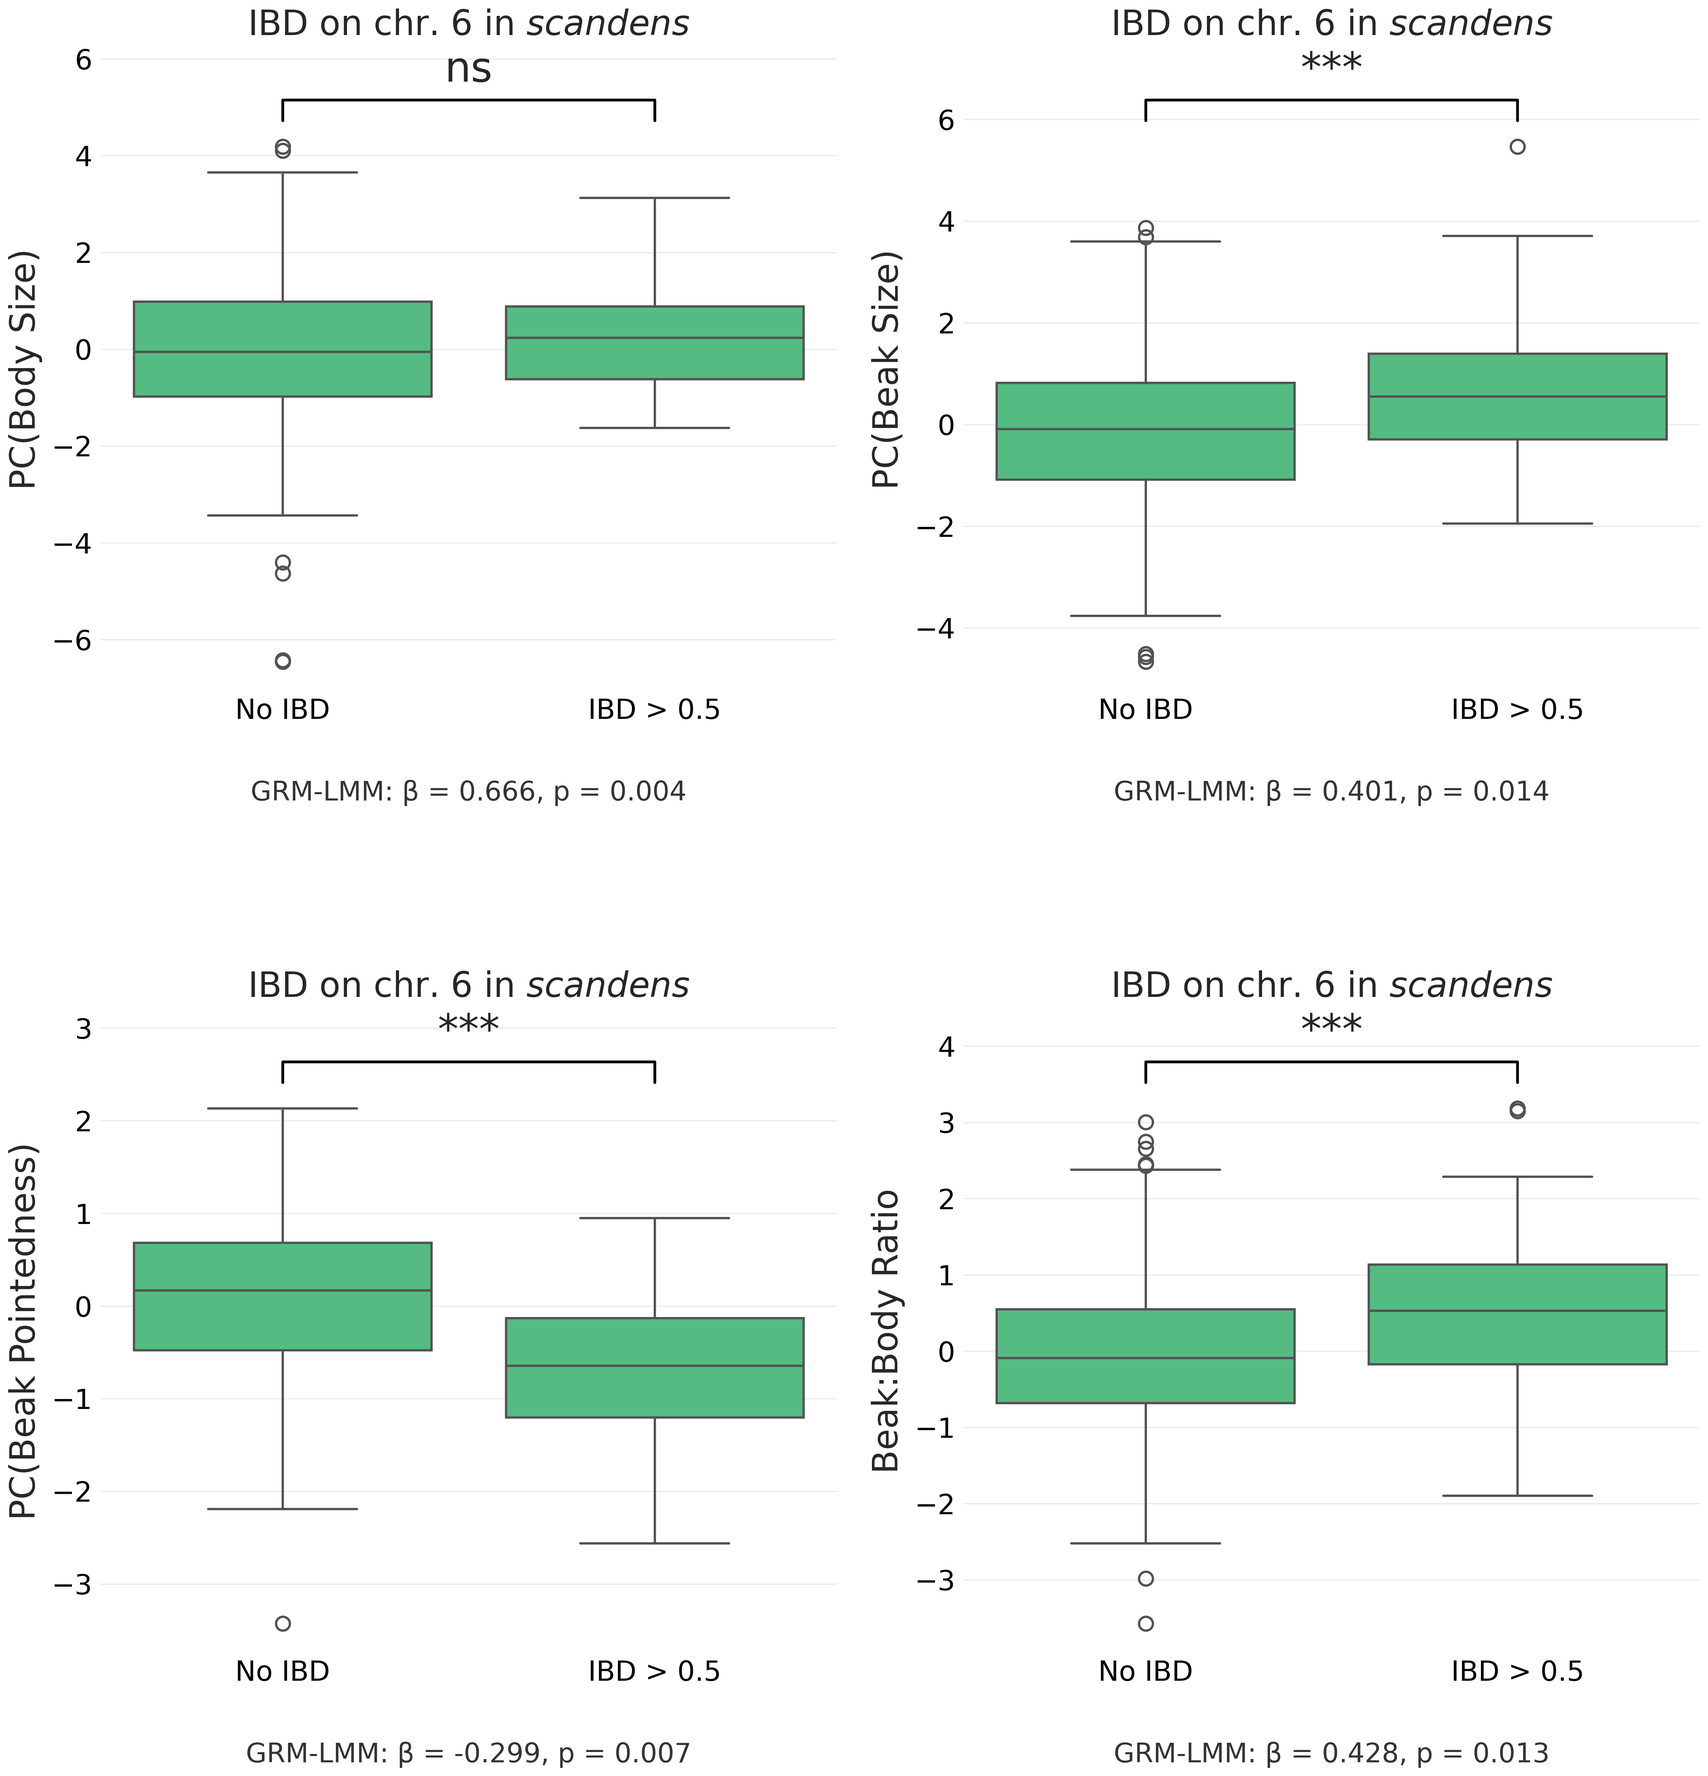
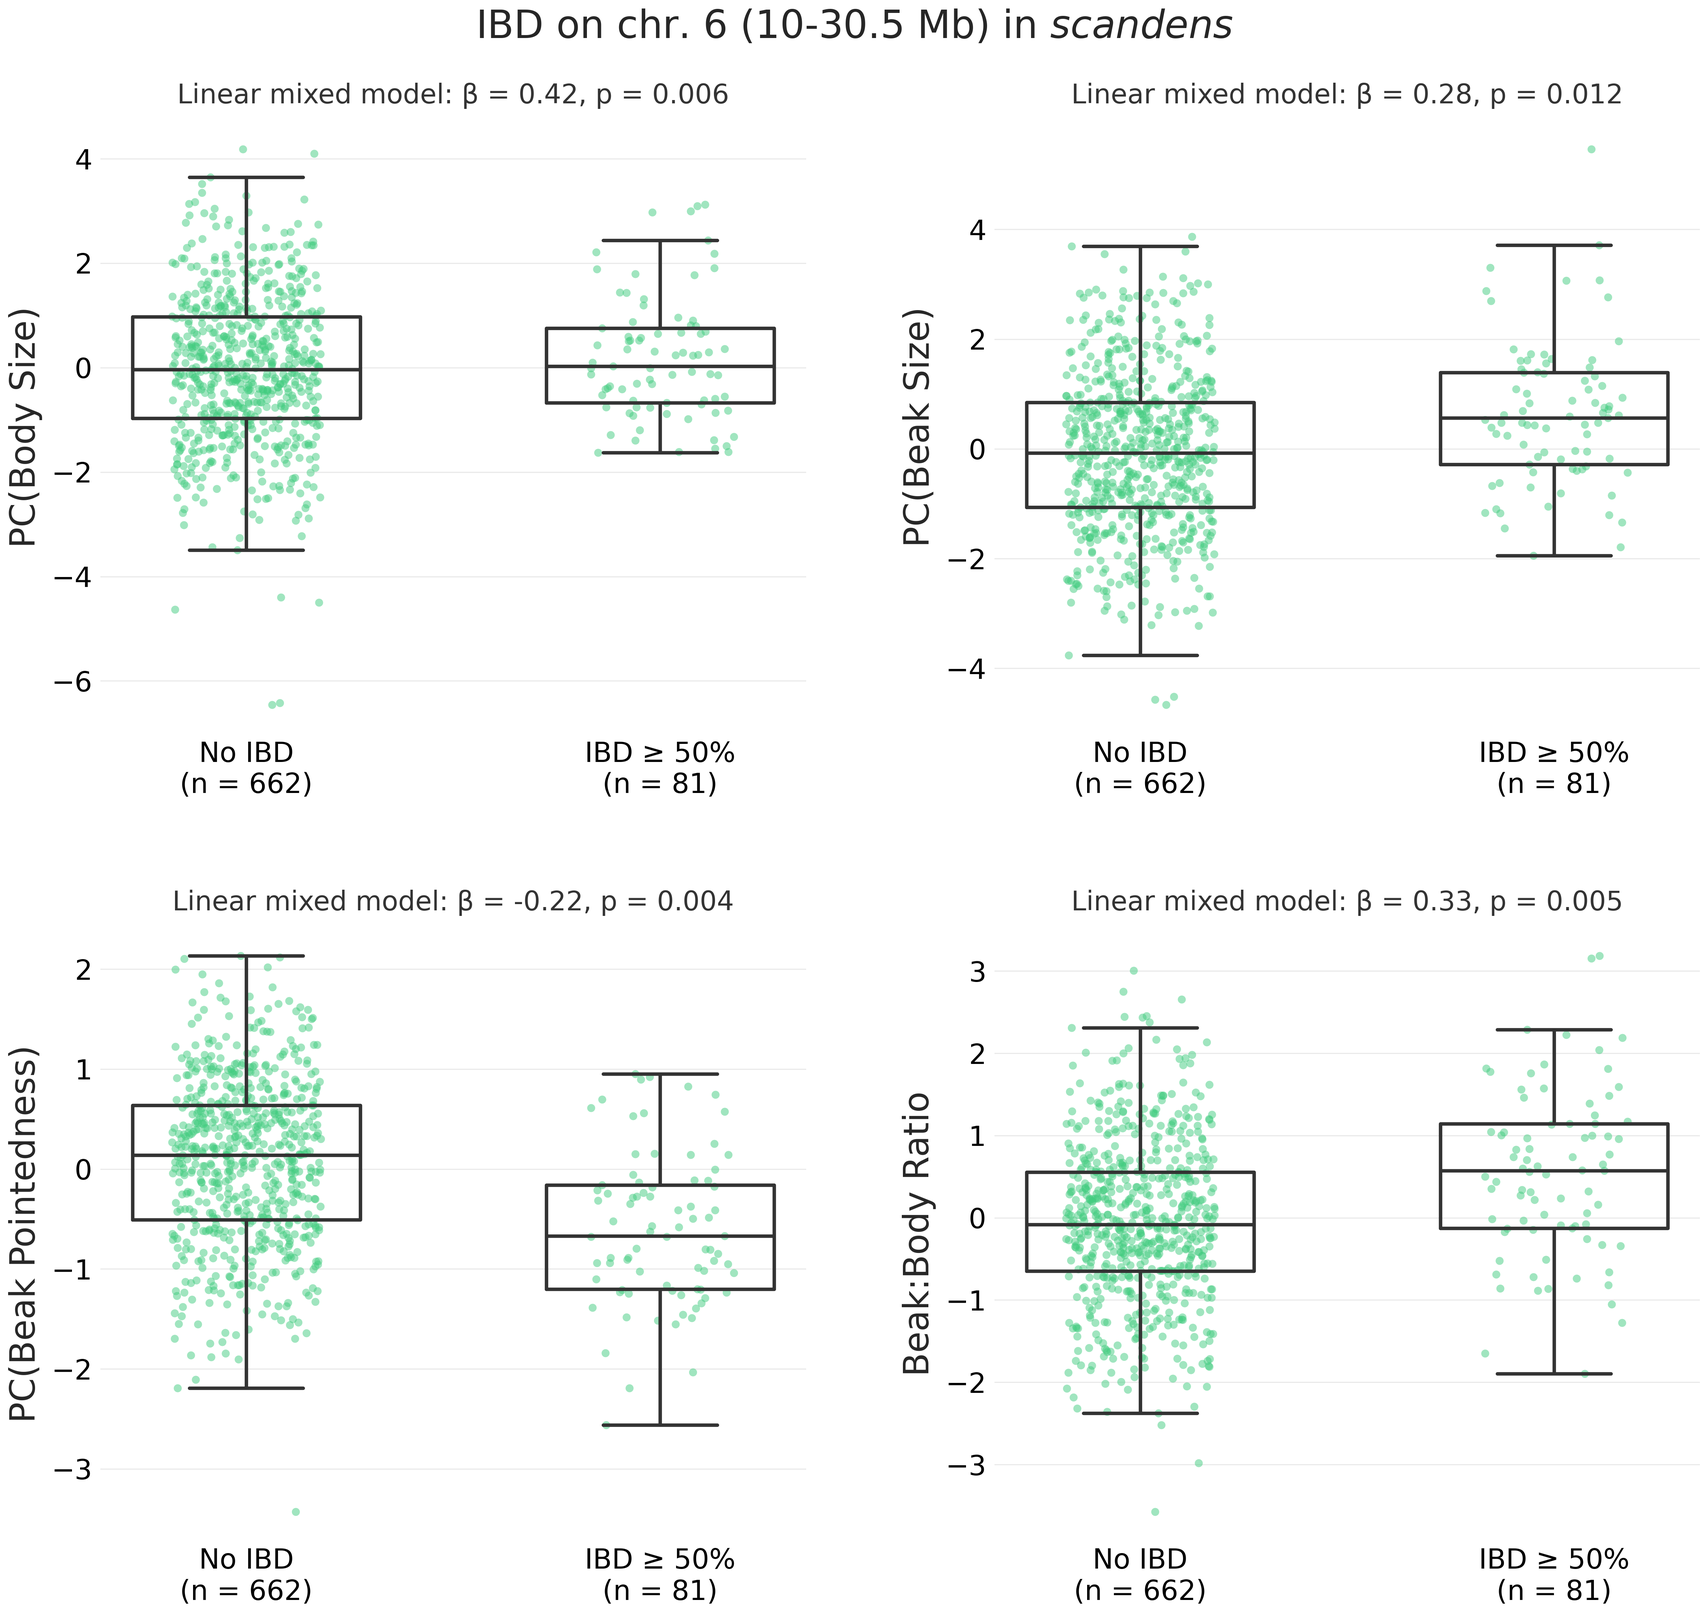
updated chr 6 box plots to perform the same analysis as on the manhattan plots but with a larger region and lower IBD threshold

diff --git a/figures_ibis/scripts/fig_4_combined.py b/figures_ibis/scripts/fig_4_combined.py
@@ -2,34 +2,36 @@ import importlib.util
 import sys
 import matplotlib.pyplot as plt
 import matplotlib.transforms as mtransforms
-import seaborn as sns
 from matplotlib.gridspec import GridSpec
 from matplotlib.patches import ConnectionPatch
-from common import ASSOCIATION, COLOR_MAP, load_chromosomes, load_ibd_beak_birds, load_master, plot_beak_vs_ibd, save_figure, set_plot_theme, style_legend
+from common import ASSOCIATION, load_chromosomes, load_ibd_beak_birds, load_master, plot_beak_vs_ibd, save_figure, set_plot_theme, style_legend
 
 # the IBD-phenotype association helpers (loaded by path since it is also named common.py)
 _spec = importlib.util.spec_from_file_location("association_common", f"{ASSOCIATION}/scripts/common.py")
 sys.modules["association_common"] = importlib.util.module_from_spec(_spec)
 _spec.loader.exec_module(sys.modules["association_common"])
-from association_common import chromosome_lmm, chromosome_test_birds, genome_layout, load_results, plot_manhattan
+from association_common import CHR6_REGION, genome_layout, load_results, plot_manhattan, plot_region_box, region_lmm, region_test_birds
 
 set_plot_theme()
 SPP = "scandens"
 TRAIT = "PC(Beak Pointedness)"
-CHROM = "6"
+CHROM, START, END = CHR6_REGION
+
+# where the arrow from the region in (c) ends, in (b)'s axes fractions: x from 0 (left edge of b's plot area) to 1 (right edge), y from 0 (bottom
+# of the plot area, above the tick labels) to 1 (top); negative y is below the plot area (the tick labels end around -0.13)
+ARROW_TIP = (0.3, -0.12)
 
 
 ########################### LOAD DATA ###########################
 # (a) every bird carrying IBD with the founder: beak pointedness against the genome-wide fraction of SNPs in IBD
 ibd_birds = load_ibd_beak_birds(load_master())
 
-# (b) the scandens of the association test: beak pointedness against the fraction of chromosome 6 SNPs in IBD, tested with the same LMM as
-# the windows (chromosome 6 LOCO GRM, covariates sex, IBD outside chromosome 6, and PC(Body Size)), but with continuous IBD over the whole chromosome
+# (b) the scandens of the association test with at least half of the chromosome 6 region in IBD, or none, tested with the same LMM as the
+# windows (chromosome 6 LOCO GRM, covariates sex, IBD outside chromosome 6, and PC(Body Size))
 chrom_code = {name: code for code, name in load_chromosomes().items()}[CHROM]
-birds, eig = chromosome_test_birds(SPP, chrom_code)
-beta, p = chromosome_lmm(birds, eig, TRAIT)
-carriers, non_carriers = birds[birds["chr_ibd"] > 0], birds[birds["chr_ibd"] == 0]
-print(f"chr{CHROM} {SPP} {TRAIT}: n = {len(birds)}, {(birds['chr_ibd'] > 0).sum()} with IBD on chr{CHROM}, beta = {beta:.6f}, p = {p:.6f}")
+birds, eig = region_test_birds(SPP, chrom_code, START, END)
+beta, p = region_lmm(birds, eig, TRAIT)
+print(f"chr{CHROM}:{START}-{END} {SPP} {TRAIT}: {birds['ibd_group'].value_counts().to_dict()}, beta = {beta:.6f}, p = {p:.6f}")
 
 # (c) windows of the association test
 genome = genome_layout()
@@ -39,34 +41,24 @@ manhattan = results[(results["species"] == SPP) & (results["trait"] == TRAIT)]
 
 ########################### CREATE PLOT ###########################
 fig = plt.figure(figsize=(16, 12))
-gs = GridSpec(2, 2, figure=fig, height_ratios=[1, 0.75], hspace=0.45, wspace=0.25)
+gs = GridSpec(2, 2, figure=fig, height_ratios=[1, 0.75], hspace=0.32, wspace=0.25)
 ax_a, ax_b = fig.add_subplot(gs[0, 0]), fig.add_subplot(gs[0, 1])
 ax_c = fig.add_subplot(gs[1, :])
 
 plot_beak_vs_ibd(ax_a, ibd_birds, TRAIT, show_legend=True, stats_y=(1.075, 1.02))
 style_legend(ax_a, loc="upper right")
 
-# (b) the birds carrying IBD on chromosome 6 (as in a, birds without IBD are not shown), with the mean of the birds without any as a reference
-sns.scatterplot(x=carriers["chr_ibd"], y=carriers[TRAIT], color=COLOR_MAP[SPP], s=25, alpha=0.75, ax=ax_b, zorder=2)
-ax_b.axhline(non_carriers[TRAIT].mean(), color="darkgray", linestyle="--", linewidth=1.5, zorder=1)
-ax_b.text(0.17, non_carriers[TRAIT].mean() - 0.03, f"mean without IBD (n = {len(non_carriers)})", ha="left", va="top", fontsize="x-small",
-          color="dimgray")
-ax_b.text(0.03, 1.02, rf"$\it{{{SPP}}}$ GRM-LMM: β = {beta:.3f}, p = {p:.3f}", transform=ax_b.transAxes, va="bottom", ha="left", fontsize="small",
-          color=COLOR_MAP[SPP])
-ax_b.set_xlabel(f"Proportion of Chr. {CHROM} SNPs in IBD")
-ax_b.set_ylabel(TRAIT)
-ax_b.set_xlim(-0.02, 1.02)
-sns.despine(top=True, right=True, left=True, bottom=True, ax=ax_b)
+plot_region_box(ax_b, birds, TRAIT, beta, p, SPP)
+ax_b.set_title(f"IBD on chr. {CHROM} ({START / 1e6:g}-{END / 1e6:g} Mb) in " + r"$\it{" + SPP + "}$", pad=30)
 
 plot_manhattan(ax_c, manhattan, genome, SPP, "neg_log10_p", "$-log_{10}$p-value", show_threshold=True, point_size=8, tick_fontsize=11, combine_from="17")
-ax_c.set_title(f"{TRAIT} in " + r"$\it{" + SPP + "}$", pad=30)
+ax_c.set_title(r"Association of $\mathrm{IBD_{F}}$ with " + f"{TRAIT} in " + r"$\it{" + SPP + "}$", loc="left", pad=16)  # left so the arrow from chr. 6 clears it
 
-# bracket over chromosome 6 in (c), with an arrow up to (b)
-start, length = genome.loc[CHROM, "start"], genome.loc[CHROM, "length"]
-bracket = mtransforms.blended_transform_factory(ax_c.transData, ax_c.transAxes)
-y0, y1 = 1.02, 1.05
-ax_c.plot([start, start, start + length, start + length], [y0, y1, y1, y0], transform=bracket, color="darkgray", linewidth=1.5, clip_on=False)
-fig.add_artist(ConnectionPatch(xyA=(start + length / 2, y1), coordsA=bracket, xyB=(0.38, -0.125), coordsB=ax_b.transAxes,
+# gray band behind the chromosome 6 region in (c), with an arrow from it up to (b)
+region_start, region_end = genome.loc[CHROM, "start"] + START, genome.loc[CHROM, "start"] + END
+ax_c.axvspan(region_start, region_end, color="lightgray", alpha=0.5, linewidth=0, zorder=0)
+band_top = mtransforms.blended_transform_factory(ax_c.transData, ax_c.transAxes)
+fig.add_artist(ConnectionPatch(xyA=((region_start + region_end) / 2, 1.0), coordsA=band_top, xyB=ARROW_TIP, coordsB=ax_b.transAxes,
                                arrowstyle="-|>", color="darkgray", linewidth=1.5, mutation_scale=18))
 
 save_figure("main/figure4.png", fig)

diff --git a/figures_ibis/scripts/fig_chr6_traits.py b/figures_ibis/scripts/fig_chr6_traits.py
@@ -2,82 +2,31 @@ import importlib.util
 import sys
 import pandas as pd
 import matplotlib.pyplot as plt
-import seaborn as sns
-from scipy.stats import mannwhitneyu
-from common import ASSOCIATION, COLOR_MAP, load_chromosomes, save_figure, set_plot_theme
+from common import ASSOCIATION, load_chromosomes, save_figure, set_plot_theme
 
 # the IBD-phenotype association helpers (loaded by path since it is also named common.py)
 _spec = importlib.util.spec_from_file_location("association_common", f"{ASSOCIATION}/scripts/common.py")
 sys.modules["association_common"] = importlib.util.module_from_spec(_spec)
 _spec.loader.exec_module(sys.modules["association_common"])
-from association_common import TRAITS, chromosome_lmm, chromosome_test_birds
+from association_common import CHR6_REGION, TRAITS, plot_region_box, region_lmm, region_test_birds
 
 set_plot_theme()
 spp = "scandens"
-chrom_name = "6"
+chrom_name, start, end = CHR6_REGION
 
-# ── birds + IBD ───────────────────────────────────────────────────────────────
-# the scandens of the IBD-phenotype association test (all six measurements and known sex, traits fit within them), with the fraction of
-# chromosome 6 SNPs in IBD (chr_ibd) and of the SNPs outside it (loco_ibd), and the chromosome 6 LOCO GRM
+# the scandens of the IBD-phenotype association test (traits fit within them) with at least half of the chromosome 6 region in IBD, or none
 chrom_code = {name: code for code, name in load_chromosomes().items()}[chrom_name]
-birds, eig = chromosome_test_birds(spp, chrom_code)
+birds, eig = region_test_birds(spp, chrom_code, start, end)
 
-# create IBD categories for boxplot
-thresh = 0.5
-IBD_type = lambda x: f"IBD > {thresh}" if x > thresh else ("Low IBD" if x > 0 else "No IBD")
-birds["IBD_type"] = birds["chr_ibd"].apply(IBD_type)
-birds_box = birds[birds["IBD_type"] != "Low IBD"].copy()
+# LMM of each trait on the IBD group, with the same LOCO GRM and covariates (sex, IBD outside the chromosome, and PC(Body Size) for beak size /
+# pointedness) as the windows of the IBD-phenotype association
+stats = pd.DataFrame({trait: region_lmm(birds, eig, trait) for trait in TRAITS}, index=["beta", "p_value"]).T
+print(birds["ibd_group"].value_counts().to_dict())
+print(stats)
 
-# ── regression stats (GRM-LMM on the continuous chr_ibd before binning) ──────
-# the same LOCO GRM, covariates (sex, IBD outside the chromosome, and PC(Body Size) for beak size / pointedness), and likelihood ratio test
-# as the windows of the IBD-phenotype association, but with continuous IBD over the whole chromosome
-stats = {trait: dict(zip(["beta", "p_reg"], chromosome_lmm(birds, eig, trait))) for trait in TRAITS}
-
-# ── Mann-Whitney (boxplot groups) ─────────────────────────────────────────────
-for trait in TRAITS:
-    a = birds_box.loc[birds_box["IBD_type"] == "No IBD", trait]
-    b = birds_box.loc[birds_box["IBD_type"] == f"IBD > {thresh}", trait]
-    _, p_mwu = mannwhitneyu(a, b, alternative="two-sided")
-    stats[trait]["p_mwu"] = p_mwu
-print(birds_box["IBD_type"].value_counts().to_dict())
-print(pd.DataFrame(stats).T)
-
-# ── plot ──────────────────────────────────────────────────────────────────────
-def annotate_panel(ax, beta, p_reg, p_mwu, y_max, y_range):
-    # bracket: Mann-Whitney stars
-    if p_mwu < 0.001:   stars = "***"
-    elif p_mwu < 0.01:  stars = "**"
-    elif p_mwu < 0.05:  stars = "*"
-    else:               stars = "ns"
-
-    h = y_range * 0.04
-    pad = y_range * 0.02
-    y_top = y_max + y_range * 0.05
-
-    ax.plot([0, 0, 1, 1], [y_top, y_top + h, y_top + h, y_top], lw=1.2, color="black", clip_on=False)
-    ax.text(0.5, y_top + h + pad, stars, ha="center", va="bottom", fontsize=18)
-    ax.set_ylim(top=y_top + h + pad + y_range * 0.08)
-
-    # regression stats (continuous chr_ibd, GRM-LMM) placed below the panel - this is a
-    # separate calculation from the boxed/binned Mann-Whitney comparison shown above
-    p_reg_str = f"p = {p_reg:.3f}" if p_reg > 0.001 else "p < 0.001"
-    ax.text(0.5, -0.14, f"GRM-LMM: β = {beta:.3f}, {p_reg_str}", transform=ax.transAxes, ha="center", va="top", fontsize="small", color="#333333")
-
-fig, axes = plt.subplots(2, 2, figsize=(10.6, 11))
+fig, axes = plt.subplots(2, 2, figsize=(10.6, 10))
 for ax, trait in zip(axes.flat, TRAITS):
-    sns.boxplot(data=birds_box, x="IBD_type", y=trait, order=["No IBD", f"IBD > {thresh}"], color=COLOR_MAP[spp], zorder=2, ax=ax)
-    if ax.collections:
-        ax.collections[-1].set_zorder(3)
-
-    ax.set_xlabel(None)
-    ax.set_ylabel(trait)
-    ax.set_title(f"IBD on chr. {chrom_name} in " + r"$\it{" + spp + "}$")
-
-    y_max = birds_box[trait].max()
-    y_range = birds_box[trait].max() - birds_box[trait].min()
-    annotate_panel(ax, stats[trait]["beta"], stats[trait]["p_reg"], stats[trait]["p_mwu"], y_max, y_range)
-    sns.despine(top=True, right=True, left=True, bottom=True, ax=ax)
-
-plt.tight_layout()
-plt.subplots_adjust(hspace=0.5)  # room for the regression annotation below each panel
+    plot_region_box(ax, birds, trait, stats.loc[trait, "beta"], stats.loc[trait, "p_value"], spp)
+fig.suptitle(f"IBD on chr. {chrom_name} ({start / 1e6:g}-{end / 1e6:g} Mb) in " + r"$\it{" + spp + "}$")
+plt.tight_layout(h_pad=3, w_pad=3)  # extra room between panels
 save_figure(f"main/chr{chrom_name}_IBD_vs_traits.png")

diff --git a/ibd_phenotype_association/scripts/common.py b/ibd_phenotype_association/scripts/common.py
@@ -56,27 +56,60 @@ def loco_ibd_fractions():
     return (ibd.sum(axis=1).to_numpy()[:, None] - ibd) / (snps.sum() - snps)
 
 
-def chromosome_ibd_fractions():
-    """Fraction of each chromosome's SNPs in (trimmed) IBD with the founder, for every bird with IBD (bird x IBIS chromosome code)."""
-    ibd, snps = _ibd_snps_per_chromosome()
-    return ibd / snps
+REGION_COVERAGE = 0.5  # region test: birds whose IBD covers at least this fraction of the region, vs birds with none in it
+REGION_GROUPS = ["No IBD", f"IBD ≥ {REGION_COVERAGE:.0%}"]
+
+# region of chromosome 6 where beak pointedness is associated with IBD in scandens across the whole stretch (windows mostly p < 0.02,
+# falling off sharply on either side), tested as a whole in fig_chr6_traits.py and figure 4: chromosome name, start, end (bp)
+CHR6_REGION = ("6", 10_000_000, 30_500_000)
 
 
-def chromosome_test_birds(spp, chrom):
-    """A whole-chromosome version of the window test (chrom: IBIS chromosome code). The species' tested birds in the order of the chromosome's
-    LOCO GRM, with the fraction of the chromosome's SNPs in IBD (chr_ibd) and of the SNPs outside it (loco_ibd), and the GRM's eigendecomposition."""
+def region_test_birds(spp, chrom, start, end):
+    """A region-wide version of the window test (chrom: IBIS chromosome code, start / end in bp). The species' tested birds with at least
+    REGION_COVERAGE of the region covered by their (summed) IBD segments or none in it (ibd_group; birds with less are left out, like the
+    window test's toss group), in the order of the chromosome's LOCO GRM, with the fraction of SNPs in IBD outside the chromosome (loco_ibd),
+    and the eigendecomposition of the GRM of these birds."""
     K, ids = load_loco_grm(spp, chrom)
     birds = load_birds(spp).set_index("ind").loc[ids]
-    birds["chr_ibd"] = chromosome_ibd_fractions()[chrom].reindex(birds.index).fillna(0)
+    seg = load_trimmed_segments()
+    region = pd.DataFrame({"chrom": [chrom], "start": [start], "end": [end]})
+    birds["region_ibd"] = window_coverage(seg[seg["ind"].isin(birds.index)], region).set_index("ind")["coverage"].reindex(birds.index).fillna(0)
+    birds["ibd_group"] = np.select([birds["region_ibd"] >= REGION_COVERAGE, birds["region_ibd"] == 0], REGION_GROUPS[::-1], default="")
     birds["loco_ibd"] = loco_ibd_fractions()[chrom].reindex(birds.index).fillna(0)
-    return birds, eigen_grm(K)
+    keep = (birds["ibd_group"] != "").to_numpy()
+    return birds[keep], eigen_grm(K[np.ix_(keep, keep)])
 
 
-def chromosome_lmm(birds, eig, trait):
-    """LMM likelihood ratio test of a trait on the continuous fraction of the chromosome in IBD (birds, eig from chromosome_test_birds), with the
-    same covariates as the window test. Returns beta and the p-value."""
-    X = np.column_stack([np.ones(len(birds)), birds["chr_ibd"]] + [birds[c] for c in COVARIATES[trait]])
+def region_lmm(birds, eig, trait):
+    """LMM likelihood ratio test of a trait between the birds with and without IBD in the region (birds, eig from region_test_birds), with
+    the same GRM and covariates as the window test. Returns beta (the IBD group's difference) and the p-value."""
+    has_ibd = (birds["ibd_group"] == REGION_GROUPS[1]).astype(float)
+    X = np.column_stack([np.ones(len(birds)), has_ibd] + [birds[c] for c in COVARIATES[trait]])
     return lmm_lrt(birds[trait].to_numpy(dtype=float), X, eig)
+
+
+def format_lmm(beta, p):
+    p_str = f"p = {p:.3f}" if p >= 0.001 else f"p = {p:.1e}"
+    return f"Linear mixed model: β = {beta:.2f}, {p_str}"
+
+
+def plot_region_box(ax, birds, trait, beta, p, spp, stats_fontsize="small", point_size=12, seed=1):
+    """Every bird's trait value without and with IBD in the region (from region_test_birds), jittered (fixed seed) behind an outlined box plot,
+    with beta / p from region_lmm above it."""
+    sns.boxplot(data=birds, x="ibd_group", y=trait, order=REGION_GROUPS, fill=False, color="#333333", linewidth=1.5, width=0.55, showfliers=False,
+                zorder=2, ax=ax)
+    # points drawn after the boxes so the axis limits include every bird
+    rng = np.random.default_rng(seed)
+    for i, group in enumerate(REGION_GROUPS):
+        y = birds.loc[birds["ibd_group"] == group, trait]
+        ax.scatter(i + rng.uniform(-0.18, 0.18, len(y)), y, s=point_size, color=COLOR_MAP[spp], alpha=0.5, linewidth=0, zorder=1)
+    ax.set_xticks(range(len(REGION_GROUPS)))
+    ax.set_xticklabels([f"{group}\n(n = {(birds['ibd_group'] == group).sum()})" for group in REGION_GROUPS])
+    ax.set_xlabel(None)
+    ax.set_ylabel(trait)
+    ax.grid(axis="x", visible=False)
+    ax.text(0.5, 1.02, format_lmm(beta, p), transform=ax.transAxes, ha="center", va="bottom", fontsize=stats_fontsize, color="#333333")
+    sns.despine(top=True, right=True, left=True, bottom=True, ax=ax)
 
 
 def genome_layout():
